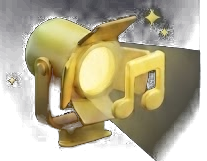
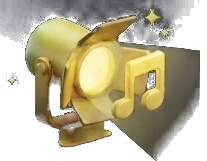
Nav: floating glass dock with center AI orb; declutter home header
- Add MobileDock: a floating pill nav (mobile only, hidden >=900px) with
  Home / Reserve / Tickets / Profile flanking a raised, breathing purple AI
  orb -> /concierge. Restores persistent nav + always-on AI access and gives
  drilled pages a way back, replacing the stranded no-bar model.
- Home header decluttered to just a clean two-line location (no pin-in-circle,
  no top-strip circle buttons — those live in the dock now).
- Re-cut the 3D icons tighter (alpha floor) to kill faint background haze.
- Shell bottom padding cleared for the floating dock.

diff --git a/src/styles/components.css b/src/styles/components.css
@@ -95,7 +95,9 @@
    affordance. The .tabs nav stays for desktop (>=900px), where it's a top
    bar. Reclaim the bottom padding the old bar reserved. */
 @media (max-width: 899px) {
-  .shell { padding-bottom: calc(24px + env(safe-area-inset-bottom)); }
+  /* Clear the floating dock (≈62px tall + 14px offset + breathing room) so
+     the last card scrolls fully above it. */
+  .shell { padding-bottom: calc(96px + env(safe-area-inset-bottom)); }
   /* .tabs is hidden on mobile below (after its base rule at .tabs{}), not
      here — placing the override before the base rule loses the cascade. */
 }
@@ -699,28 +701,20 @@ a.cat-circle:active { transform: scale(0.96); }
 }
 .ex-hero-host:hover { background: var(--surface-hover); border-color: var(--text-3); }
 .ex-hero-host [class^="icon-"] { font-size: 14px; color: var(--accent); }
-/* Two-line location control (reference: city + region stacked, pin in a soft
-   circle, chevron) — the home hub's version of the single-line .pill. */
-.loc-pill {
-  display: inline-flex; align-items: center; gap: 10px; min-width: 0;
-  padding: 4px 8px 4px 4px; border-radius: var(--radius-pill);
-  transition: background-color .15s ease;
+/* Home header location — clean two lines, no pin-in-a-circle. City (with a
+   chevron cue) over the region; the whole thing is one quiet tap target. */
+.loc-btn {
+  display: inline-flex; flex-direction: column; align-items: flex-start; gap: 1px;
+  padding: 2px 4px; border-radius: var(--radius-sm);
+  transition: opacity .15s ease;
 }
-.loc-pill:hover { background: var(--surface); }
-.loc-pill:active { background: var(--surface-hover); }
-.loc-pill-pin {
-  display: grid; place-items: center; flex: 0 0 auto;
-  width: 36px; height: 36px; border-radius: 50%;
-  background: var(--surface); border: 1px solid var(--border-strong); color: var(--text-2);
+.loc-btn:active { opacity: .6; }
+.loc-btn-city {
+  display: inline-flex; align-items: center; gap: 5px;
+  font-size: 21px; font-weight: 700; letter-spacing: -0.5px; color: var(--text); line-height: 1.1;
 }
-.loc-pill-pin i { font-size: 16px; }
-.loc-pill-text { display: flex; flex-direction: column; align-items: flex-start; min-width: 0; line-height: 1.15; }
-.loc-pill-city {
-  display: inline-flex; align-items: center; gap: 4px;
-  font-size: 17px; font-weight: 700; letter-spacing: -0.3px; color: var(--text);
-}
-.loc-pill-city i { font-size: 13px; color: var(--text-2); }
-.loc-pill-sub { font-size: 12px; font-weight: 500; color: var(--text-2); white-space: nowrap; }
+.loc-btn-city i { font-size: 15px; color: var(--text-2); }
+.loc-btn-sub { font-size: 12.5px; font-weight: 500; color: var(--text-2); }
 .discover-head-actions { display: flex; align-items: center; gap: 8px; flex: 0 0 auto; }
 .discover-head-back {
   display: inline-flex; align-items: center; gap: 8px;
@@ -1287,11 +1281,74 @@ a.cat-circle:active { transform: scale(0.96); }
 /* press scale removed — MotionButton's whileTap spring handles it now; the
    resting translateY(-10px) FAB lift above is untouched (it's not :active). */
 .tab-host > .tab [class^="icon-"] { color: var(--bg); font-size: 20px; }
-/* Mobile (<900px): the whole bottom tab bar is gone — nav lives in the home
-   hub + top strip. Placed AFTER .tabs's base rule so the cascade wins.
-   Desktop (>=900px) keeps .tabs as its top bar. */
+/* Mobile (<900px): the desktop .tabs top bar is hidden; navigation lives in
+   the floating .dock below instead. Desktop (>=900px) keeps .tabs as its top
+   bar and hides the dock (see the >=900px rule at the end of the dock block).
+   Placed AFTER .tabs's base rule so the cascade wins. */
 @media (max-width: 899px) {
   .tabs { display: none; }
+}
+
+/* ---------- Floating mobile dock ----------
+   A pill-shaped glass bar pinned above the home indicator, with the AI
+   concierge as a raised, glowing orb in the middle. Four flat tabs flank it
+   (Home · Reserve · [AI] · Tickets · Profile). Floats (side margins + big
+   soft shadow) rather than sitting flush to the edge, so it reads as a
+   premium overlay, not stock chrome. */
+.dock {
+  position: fixed; left: 50%; transform: translateX(-50%);
+  bottom: calc(14px + env(safe-area-inset-bottom));
+  z-index: 50;
+  width: calc(100% - 24px); max-width: 440px;
+  display: flex; align-items: center; justify-content: space-between;
+  padding: 9px 16px;
+  background: var(--glass-veil);
+  backdrop-filter: blur(20px) saturate(160%);
+  -webkit-backdrop-filter: blur(20px) saturate(160%);
+  border: 1px solid var(--glass-edge);
+  border-radius: var(--radius-pill);
+  box-shadow: var(--shadow-float);
+}
+.dock-item {
+  flex: 1 1 0; min-width: 0;
+  display: flex; flex-direction: column; align-items: center; gap: 3px;
+  color: var(--text-3);
+  transition: color .16s ease, transform .12s cubic-bezier(.25,1,.5,1);
+}
+.dock-item i { font-size: 23px; line-height: 1; }
+.dock-item-label { font-size: 9.5px; font-weight: 600; letter-spacing: .2px; }
+.dock-item.on { color: var(--text); }
+.dock-item:active { transform: scale(.88); }
+/* Signed-in avatar in the profile slot — same footprint as the glyphs. */
+.dock-avatar {
+  width: 23px; height: 23px; border-radius: 50%; overflow: hidden;
+  display: grid; place-items: center;
+}
+.dock-avatar img { width: 100%; height: 100%; object-fit: cover; }
+.dock-avatar i { font-size: 23px; }
+.dock-item-profile.on .dock-avatar { box-shadow: 0 0 0 2px var(--text); }
+
+/* AI orb — raised above the bar, purple gradient (the one sanctioned hue),
+   gently breathing to invite a tap. */
+.dock-ai { flex: 1 1 0; display: flex; justify-content: center; }
+.dock-ai-orb {
+  width: 54px; height: 54px; margin-top: -26px; border-radius: 50%;
+  display: grid; place-items: center; color: #fff; font-size: 24px;
+  background: radial-gradient(circle at 50% 32%, #b989ff, #7a2bff 72%);
+  box-shadow: 0 6px 18px rgba(140,60,255,.5), inset 0 1px 1px rgba(255,255,255,.35);
+  animation: orb-breathe 3.4s ease-in-out infinite;
+  transition: transform .14s cubic-bezier(.25,1,.5,1);
+}
+.dock-ai-orb:active { transform: scale(.9); }
+@keyframes orb-breathe {
+  0%, 100% { box-shadow: 0 6px 16px rgba(140,60,255,.42), inset 0 1px 1px rgba(255,255,255,.35); transform: scale(1); }
+  50%      { box-shadow: 0 9px 26px rgba(140,60,255,.72), inset 0 1px 1px rgba(255,255,255,.35); transform: scale(1.05); }
+}
+@media (prefers-reduced-motion: reduce) {
+  .dock-ai-orb { animation: none; }
+}
+@media (min-width: 900px) {
+  .dock { display: none; }
 }
 /* Dimmed scrim behind the popover — the outside-tap-to-close behavior
    already existed (App.tsx's pointerdown listener), but with nothing

diff --git a/src/components/MobileDock.tsx b/src/components/MobileDock.tsx
@@ -1,0 +1,70 @@
+import { useLocation } from "react-router-dom";
+import { MotionNavLink, MotionLink } from "../motion";
+import { useAccount } from "../store";
+
+// Mobile-only floating nav (hidden >=900px, where .tabs becomes a top bar).
+// A pill-shaped glass bar that stays put across every route, with the AI
+// concierge as a raised, glowing orb in the center — the one persistent way
+// to reach the assistant, and the home for the "what's on / what I've got /
+// who I am" destinations so drilled-in pages always have a way back out.
+// Four flat tabs flank the orb: Home · Reserve · [AI] · Tickets · Profile.
+const DOCK_TABS_LEFT = [
+  { to: "/", end: true, icon: "home", label: "Home" },
+  { to: "/venues", icon: "store", filled: true, label: "Reserve" },
+];
+const DOCK_TABS_RIGHT = [
+  { to: "/tickets", icon: "ticket", filled: true, label: "Tickets" },
+];
+
+function DockTab({ to, end, icon, filled, label }: { to: string; end?: boolean; icon: string; filled?: boolean; label: string }) {
+  return (
+    <MotionNavLink
+      to={to}
+      end={end}
+      className={({ isActive }) => "dock-item" + (isActive ? " on" : "")}
+      aria-label={label}
+    >
+      {({ isActive }) => (
+        <>
+          <i className={"icon-" + icon + (isActive && filled ? "-fill" : "")} />
+          <span className="dock-item-label">{label}</span>
+        </>
+      )}
+    </MotionNavLink>
+  );
+}
+
+export default function MobileDock() {
+  const account = useAccount();
+  const location = useLocation();
+  const profileActive = location.pathname === "/you";
+
+  return (
+    <nav className="dock" aria-label="Primary">
+      {DOCK_TABS_LEFT.map((t) => <DockTab key={t.to} {...t} />)}
+
+      {/* AI concierge — the raised center orb. A real gradient purple (the
+          one sanctioned hue) so it reads as the app's single "magic" moment,
+          gently breathing (CSS, reduced-motion-guarded) to invite a tap. */}
+      <div className="dock-ai">
+        <MotionLink to="/concierge" className="dock-ai-orb" aria-label="Ask the AI">
+          <i className="icon-sparkles" />
+        </MotionLink>
+      </div>
+
+      {DOCK_TABS_RIGHT.map((t) => <DockTab key={t.to} {...t} />)}
+
+      {/* Profile: the account avatar itself when signed in, a glyph otherwise. */}
+      <MotionLink
+        to="/you"
+        className={"dock-item dock-item-profile" + (profileActive ? " on" : "")}
+        aria-label="Profile"
+      >
+        <span className="dock-avatar">
+          {account?.picture ? <img src={account.picture} alt="" /> : <i className="icon-circle-user" />}
+        </span>
+        <span className="dock-item-label">Profile</span>
+      </MotionLink>
+    </nav>
+  );
+}

diff --git a/src/pages/Discover.tsx b/src/pages/Discover.tsx
@@ -1,31 +1,17 @@
-import { Link } from "react-router-dom";
 import Explore from "./Explore";
-import UserAvatar from "../components/UserAvatar";
 import CityPill from "../components/CityPill";
-import { useAccount } from "../store";
 
-// Home hub: search + the 3-tile nav grid (Events/Venues/Host — see Explore's
-// embedded render) + a persistent top strip (location, saved, tickets,
-// profile). Venues and Host are real pushed routes now, reached by tapping a
-// tile with a shared-element icon morph (see the layoutId props in
-// Explore.tsx / Reservations.tsx / Organizer.tsx) — Discover itself no longer
-// has an Events/Venues mode to switch between.
+// Home hub: a clean location header + search + the 2-tile nav grid (Events /
+// Reserve — see Explore's embedded render). Persistent navigation (Home,
+// Reserve, AI, Tickets, Profile) lives in the floating MobileDock, so the
+// header no longer carries saved/tickets/profile shortcuts. Reserve is a real
+// pushed route reached by tapping its tile with a shared-element icon morph
+// (see the layoutId props in Explore.tsx / Reservations.tsx).
 export default function Discover() {
-  const account = useAccount();
-
   return (
     <>
       <div className="discover-head">
-        <CityPill />
-        <div className="discover-head-actions">
-          <Link to="/saved" className="discover-head-icon-btn" aria-label="Saved">
-            <i className="icon-bookmark" />
-          </Link>
-          <Link to="/tickets" className="discover-head-icon-btn" aria-label="My tickets">
-            <i className="icon-ticket" />
-          </Link>
-          <UserAvatar account={account} />
-        </div>
+        <CityPill variant="home" />
       </div>
 
       <Explore embedded />

diff --git a/src/components/CityPill.tsx b/src/components/CityPill.tsx
@@ -3,17 +3,23 @@ import { useState } from "react";
 // Topbar "Muscat" pill + its info popover — shared by Explore.tsx and
 // Reservations.tsx so both browse tabs get the same real behavior instead
 // of one working and one being a static, non-interactive lookalike.
-export default function CityPill() {
+export default function CityPill({ variant = "compact" }: { variant?: "compact" | "home" }) {
   const [open, setOpen] = useState(false);
   return (
     <>
-      <button className="loc-pill" onClick={() => setOpen(true)} aria-label="Change city">
-        <span className="loc-pill-pin"><i className="icon-map-pin" /></span>
-        <span className="loc-pill-text">
-          <span className="loc-pill-city">Muscat <i className="icon-chevron-down" /></span>
-          <span className="loc-pill-sub">Muscat, Oman</span>
-        </span>
-      </button>
+      {variant === "home" ? (
+        // Home header: a clean two-line location, no pin-in-a-circle — just
+        // the city (with a chevron signalling "tap to change") over the
+        // region. Reads as location without leaning on a glyph.
+        <button className="loc-btn" onClick={() => setOpen(true)} aria-label="Change city">
+          <span className="loc-btn-city">Muscat <i className="icon-chevron-down" /></span>
+          <span className="loc-btn-sub">Muscat, Oman</span>
+        </button>
+      ) : (
+        <button className="pill" onClick={() => setOpen(true)}>
+          <i className="icon-map-pin" /> Muscat
+        </button>
+      )}
       {open && (
         <div className="city-popover-backdrop" onClick={() => setOpen(false)}>
           <div className="city-popover" onClick={(e) => e.stopPropagation()}>

diff --git a/src/App.tsx b/src/App.tsx
@@ -2,6 +2,7 @@ import { useEffect, useRef, useState, lazy, Suspense } from "react";
 import { Outlet, Link, useLocation } from "react-router-dom";
 import { motion } from "motion/react";
 import Discover from "./pages/Discover";
+import MobileDock from "./components/MobileDock";
 import Skeleton from "./components/Skeleton";
 import ThemeToggle from "./components/ThemeToggle";
 import CityPill from "./components/CityPill";
@@ -233,6 +234,11 @@ export default function App() {
           </Link>
         </div>
       </nav>
+
+      {/* Mobile-only floating dock (hidden >=900px). Persistent nav + the AI
+          orb, so drilled pages always have a way back and the assistant is
+          always one tap away. */}
+      <MobileDock />
     </motion.div>
   );
 }